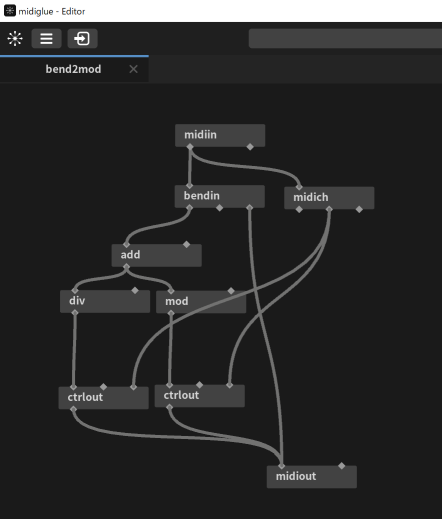
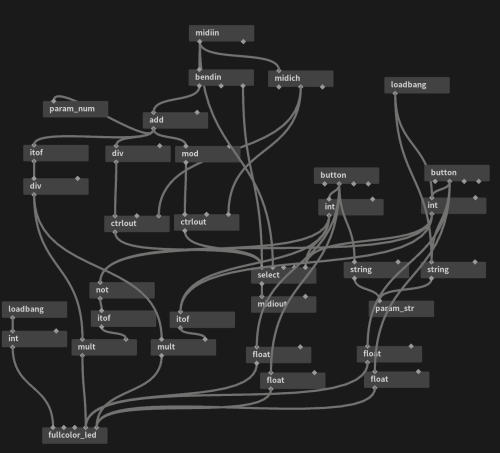
add select switch

diff --git a/README.md b/README.md
@@ -5,7 +5,7 @@ bend2mod
 
 [midiglue](https://sigboost.audio/midiglue/) patch that convert MIDI pitch bend message to MIDI modulation message
 
-<img src="bend2mod.png" width="442px">
+<img src="bend2mod.png" width="500px">
 
 
 ## License
